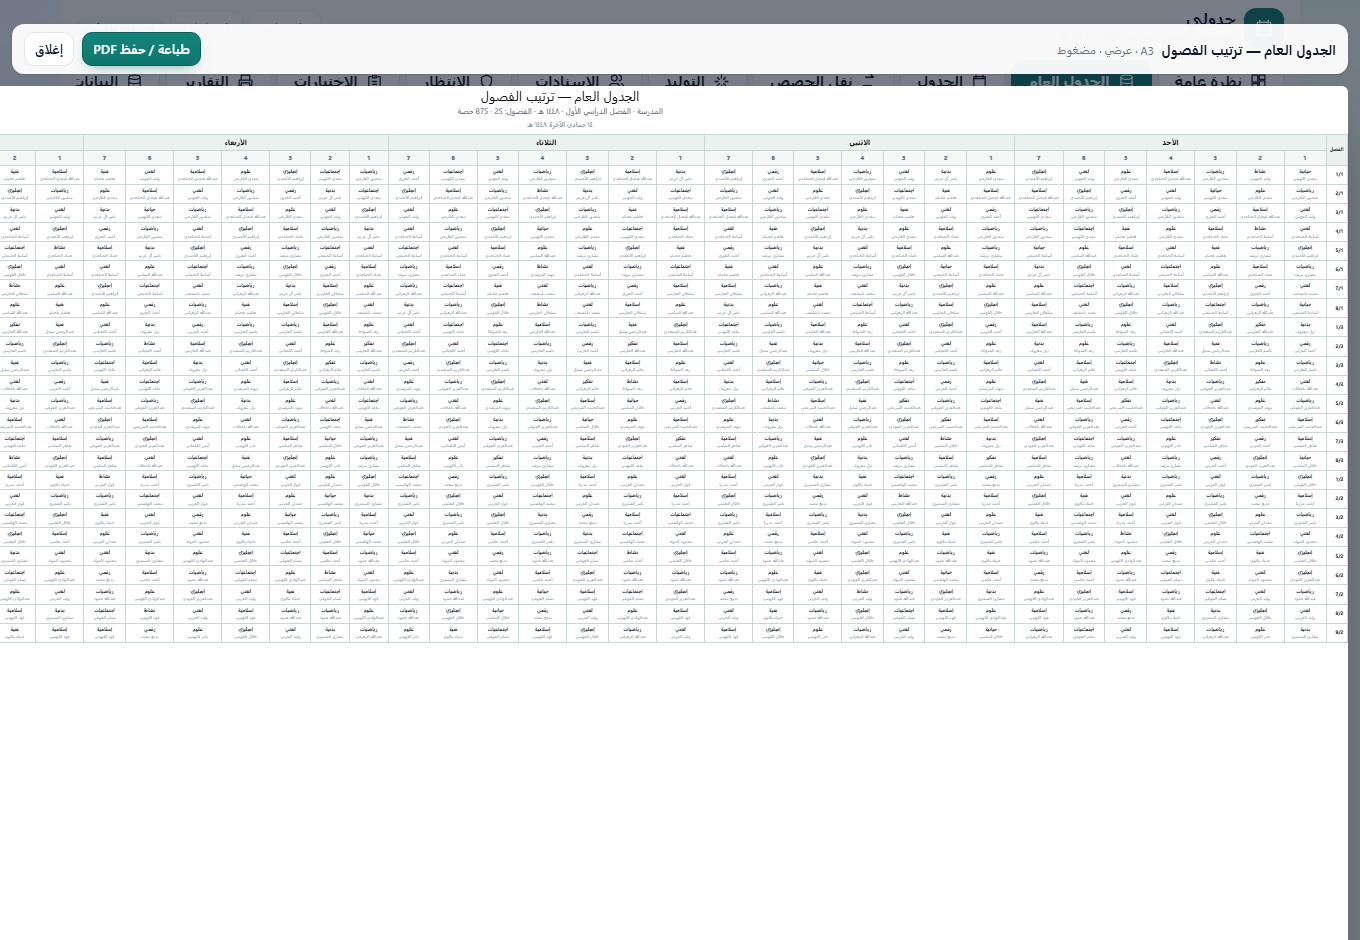
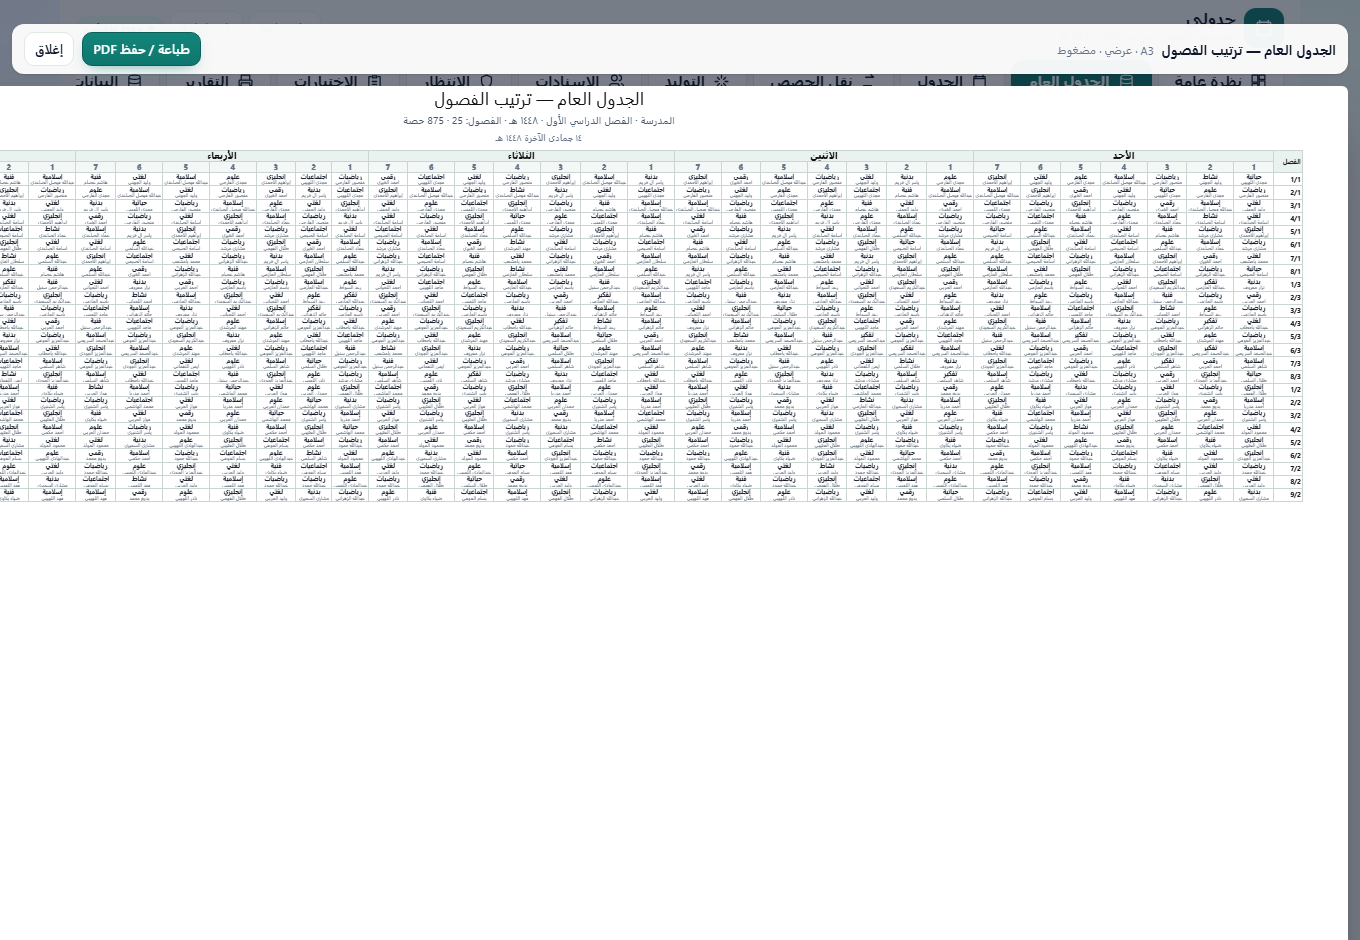
الجدول العام: خلايا أصغر وخط أوضح وهامش أيمن 12مم في التقريرين

Changed region(s): [[0.0, 0.0926, 0.9882, 0.6787]]

diff --git a/src/styles.css b/src/styles.css
@@ -69,7 +69,7 @@ body {
 .master-table td {
   border-bottom: 1px solid #eef2f0;
   border-inline-start: 1px solid #f3f6f5;
-  padding: 3px 4px;
+  padding: 2px 3px;
   text-align: center;
   white-space: nowrap;
   vertical-align: middle;
@@ -166,11 +166,12 @@ body {
 .master-print table {
   width: max-content;
   font-size: 7px;
+  line-height: 1.05;
 }
 
 .master-print th,
 .master-print td {
-  padding: 1.5px 2px;
+  padding: 0.5px 1px;
   border: 1px solid #cfd8d4;
 }
 
@@ -194,15 +195,21 @@ body {
   width: 13mm;
   min-width: 13mm;
   max-width: 13mm;
+  padding-right: 2mm;
 }
 
 .master-print .master-subject {
   font-size: 7px;
+  font-weight: 700;
+  color: #0b1220;
+  line-height: 1;
   max-width: none;
 }
 
 .master-print .master-meta {
-  font-size: 6px;
+  font-size: 5px;
+  color: #334155;
+  line-height: 1;
   max-width: none;
 }
 
@@ -211,9 +218,19 @@ body {
   width: auto;
 }
 
+/* أولوية أعلى من قاعدة الطباعة المضغوطة العامة */
+.print-sheet[data-compact='true'] .master-print table {
+  font-size: 7px;
+}
+
+.print-sheet[data-compact='true'] .master-print th,
+.print-sheet[data-compact='true'] .master-print td {
+  padding: 0.5px 1px;
+}
+
 @media print {
   .print-sheet[data-compact='true'] .master-print table {
-    font-size: 6.5px;
+    font-size: 7px;
   }
 }
 
@@ -548,7 +565,7 @@ body {
 
 @media screen {
   .print-sheet[data-edge='true'] {
-    padding: 0;
+    padding: 0 12mm 0 0;
     overflow: hidden;
   }
 
@@ -631,12 +648,12 @@ body {
 
   @page p-a3 {
     size: A3 portrait;
-    margin: 0;
+    margin: 0 12mm 0 0;
   }
 
   @page l-a3 {
     size: A3 landscape;
-    margin: 0;
+    margin: 0 12mm 0 0;
   }
 
   @page public-landscape {
@@ -698,4 +715,8 @@ body {
     font-size: 11px;
   }
 }
+
+
+
+
 

diff --git a/src/components/MasterTable.tsx b/src/components/MasterTable.tsx
@@ -187,6 +187,9 @@ export function masterSubtitle(data: SchoolData, mode: MasterMode): string {
  * يصغّر المحتوى تلقائيًا ليدخل في صفحة واحدة بمقاس A3 (طولية أو عرضية)
  * بهوامش 4مم، عبر ضبط zoom حسب القياس الفعلي للجدول.
  */
+/** هوامش صفحة الجدول العام: صفر من كل الجهات عدا يمين 12مم (يُطابق CSS @page). */
+export const MASTER_RIGHT_MARGIN_MM = 12;
+
 export function FitToPage({ orientation, children }: { orientation: 'portrait' | 'landscape'; children: ReactNode }) {
   const outerRef = useRef<HTMLDivElement>(null);
   const innerRef = useRef<HTMLDivElement>(null);
@@ -198,8 +201,8 @@ export function FitToPage({ orientation, children }: { orientation: 'portrait' |
     if (!outer || !inner) return;
     const toPx = (mm: number) => (mm * 96) / 25.4;
     const [pageWidth, pageHeight] = orientation === 'portrait' ? [297, 420] : [420, 297];
-    // هوامش الصفحة صفر؛ نترك هامش أمان 2مم لتفادي الكسر أو القص عند الطباعة.
-    const availableWidth = toPx(pageWidth - 2);
+    // هامش أيمن 12مم حسب CSS، مع 2مم أمان لتفادي الكسر أو القص.
+    const availableWidth = toPx(pageWidth - MASTER_RIGHT_MARGIN_MM - 2);
     const availableHeight = toPx(pageHeight - 2);
 
     // نقيس على أرض الواقع ثم نصحّح: عرض الجدول الداخلي يتغيّر قليلًا مع نسبة التصغير
